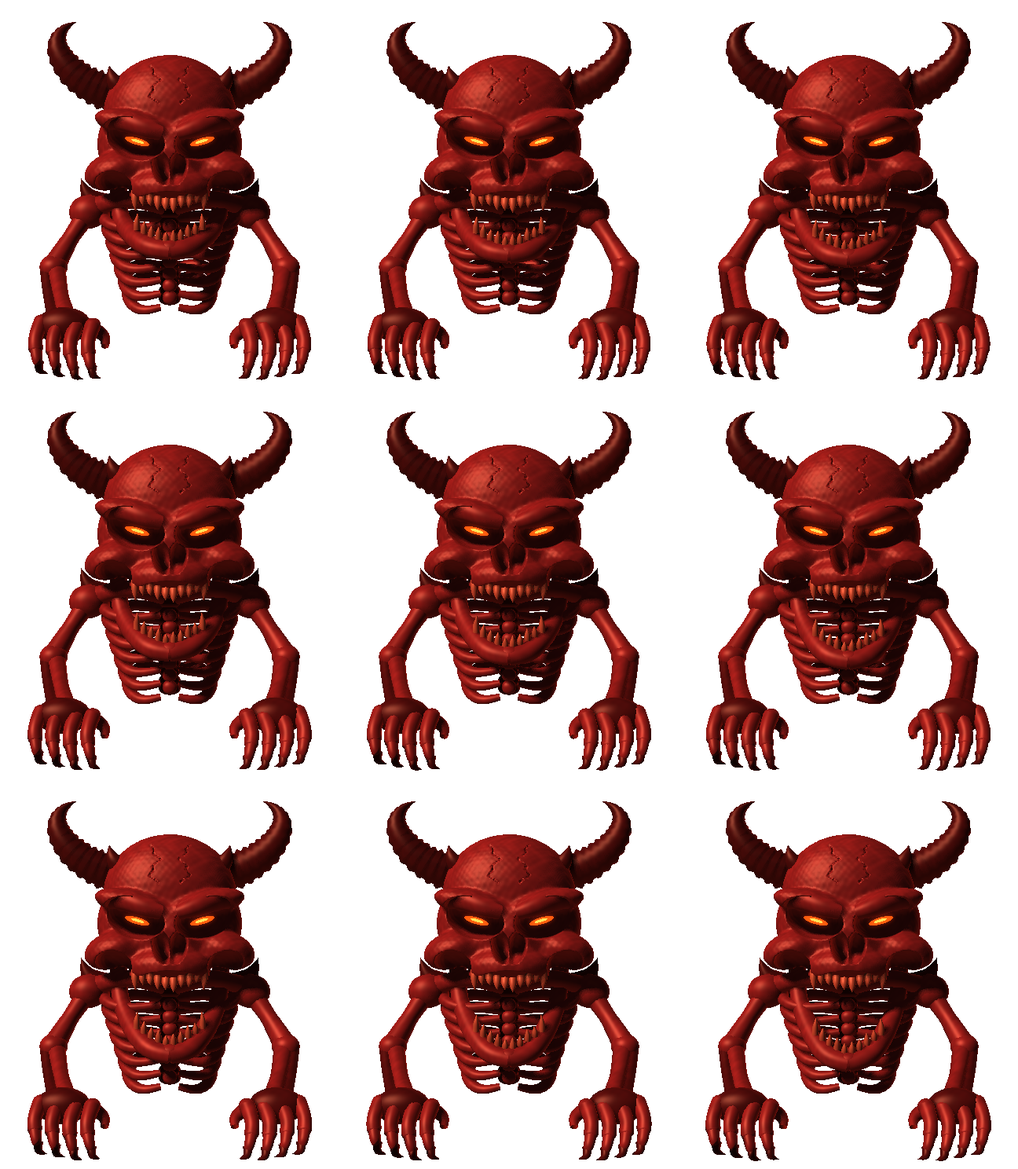
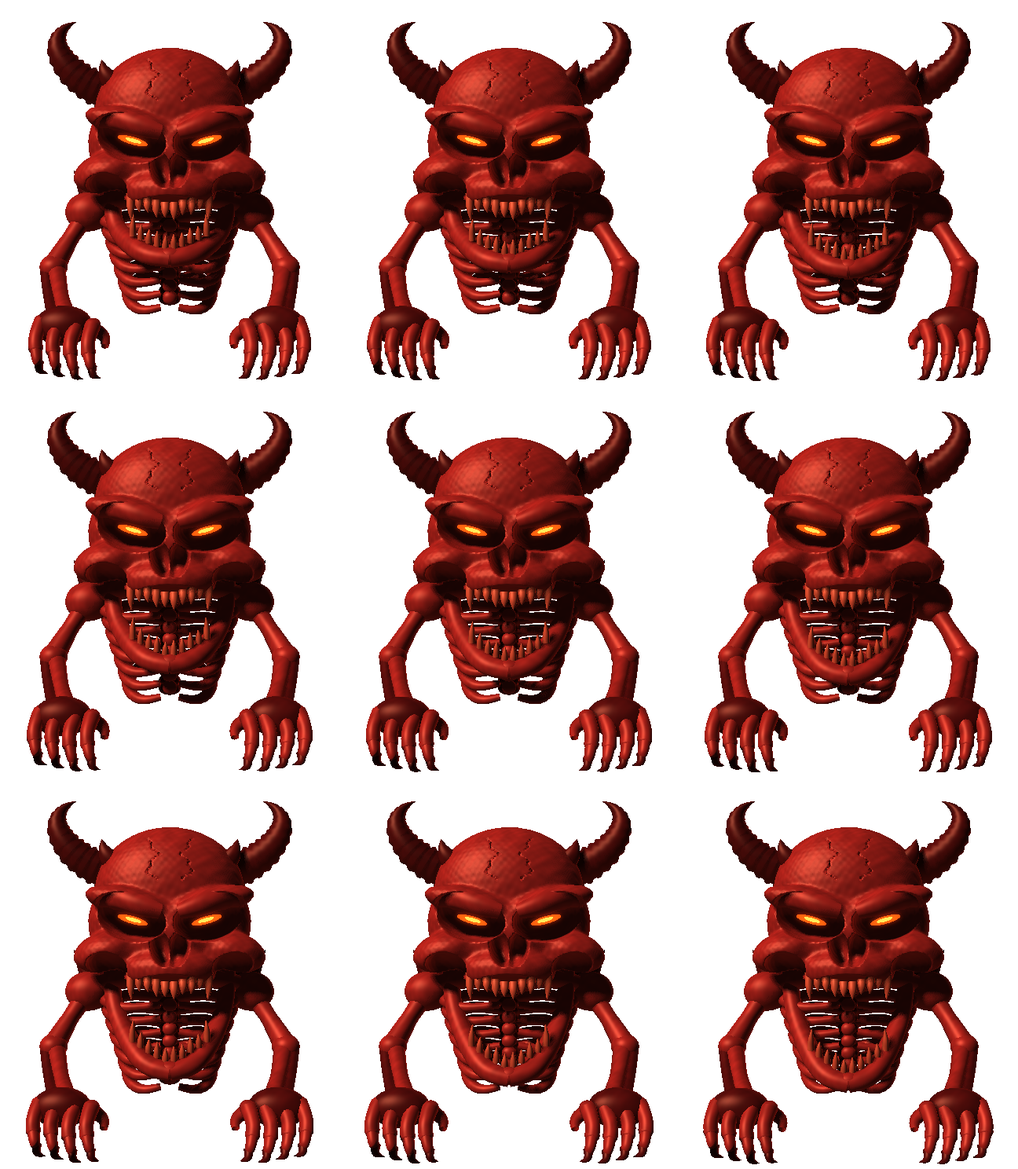
Refine SSL strip, align Dope controls and add real output meter; deepen Demon relief
Preserve existing parameter identities and DSP. Add live peak telemetry for Dope and alignment checks, refine shared hardware finish, verify 37 native editor scenes and portable regressions.

diff --git a/Source/PluginEditor.cpp b/Source/PluginEditor.cpp
@@ -48,6 +48,14 @@ static void paintSSLReduction(Graphics& g,Rectangle<float> r,float db,float peak
     line(r.getY()+7,"GR dB",std::abs(db)<.05f?0.f:-std::abs(db),juce::jlimit(0,n,int(std::ceil(std::abs(db)*n/20.f))),false);
     line(r.getY()+34,"OUT dBFS",peak,juce::jlimit(0,n,int(std::ceil((peak+60.f)*n/60.f))),true);
 }
+// Real post-effect aggregate peak, red LED ladder like the rack hardware.
+static void paintDopePeak(Graphics& g,Rectangle<float> r,float db,bool plate){
+    const auto track=r.reduced(9,0).withY(r.getY()+27).withHeight(9);
+    if(plate){paintRecessedWindow(g,r,3.f);g.setColour(Colour(0xffddd7ce));g.setFont(font(10.f,true));g.drawText("OUTPUT LEVEL",r.withY(r.getY()+6).withHeight(16),juce::Justification::centred);return;}
+    const int n=32;const float step=track.getWidth()/n;const int lit=juce::jlimit(0,n,int(std::ceil((db+60.f)*n/60.f)));
+    for(int i=0;i<n;++i){auto b=Rectangle<float>(track.getX()+i*step,track.getY(),step-.85f,track.getHeight());const auto c=i<lit?Colour(0xffff3e22):Colour(0xff391714);g.setGradientFill(juce::ColourGradient::vertical(c.brighter(.18f),b.getY(),c.darker(.45f),b.getBottom()));g.fillRoundedRectangle(b,.6f);}
+    g.setColour(Colour(0xffd9b6a0));g.setFont(font(9.f));g.drawText(db<=-60.f?"-INF dBFS":juce::String(db,1)+" dBFS",r.withY(r.getY()+41).withHeight(18),juce::Justification::centred);
+}
 // =================================================================== KnobCell
 KnobCell::KnobCell(const juce::String& label, juce::RangedAudioParameter& param, Fmt fmt, juce::Colour cap, juce::Colour pointer,
                    double resetValue, double step, bool compact)
@@ -78,7 +86,7 @@ void KnobCell::setSprite(int) { slider.setSliderStyle(juce::Slider::RotaryVertic
 
 void KnobCell::resized() {
     if(bool(slider.getProperties().getWithDefault("consoleCell",false))&&!compact_){
-        const int size=juce::jmax(1,juce::jmin(getWidth()-2,getHeight()-20,47));
+        const int size=juce::jmax(1,juce::jmin(getWidth()-2,getHeight()-20,bool(slider.getProperties().getWithDefault("dopeRow",false))?52:47));
         slider.setBounds((getWidth()-size)/2,juce::jmax(0,(getHeight()-size-20)/2),size,size);return;
     }
     if(bool(slider.getProperties().getWithDefault("hushFader",false))&&!compact_){slider.setBounds(5,3,getWidth()-10,getHeight()-36);return;}
@@ -99,7 +107,7 @@ void KnobCell::resized() {
 bool KnobCell::controlGeometryValid() const noexcept {
     const auto b=slider.getBounds();
     if(b.isEmpty()||!getLocalBounds().contains(b))return false;
-    if(bool(slider.getProperties().getWithDefault("consoleCell",false)))return b.getWidth()==b.getHeight()&&b.getWidth()<=47&&b.getBottom()+18<=getHeight();
+    if(bool(slider.getProperties().getWithDefault("consoleCell",false)))return b.getWidth()==b.getHeight()&&b.getWidth()<=(bool(slider.getProperties().getWithDefault("dopeRow",false))?52:47)&&b.getBottom()+18<=getHeight();
     if(bool(slider.getProperties().getWithDefault("hushFader",false))&&!compact_)return b.getBottom()+28<=getHeight();
     if(b.getWidth()!=b.getHeight())return false;
     if(compact_)return b.getWidth()<=48;
@@ -156,7 +164,7 @@ void KnobCell::paint(Graphics& g) {
     const int y=juce::jmin(getHeight()-30,slider.getBottom()+3);
     if(bool(slider.getProperties().getWithDefault("consoleCell",false))){
         const int yy=juce::jmin(getHeight()-19,slider.getBottom()+1);
-        const float fs=getWidth()<40?8.3f:9.7f;
+        const float fs=bool(slider.getProperties().getWithDefault("dopeRow",false))?10.8f:getWidth()<40?8.3f:9.7f;
         g.setColour(lightFace_?Colour(0xff252322):Colour(0xffe3e1d9));g.setFont(font(fs,true));
         g.drawFittedText(label_,Rectangle<int>(0,yy,getWidth(),10),juce::Justification::centred,1);
         g.setColour(lightFace_?Colour(0xff37332a):Colour(0xffb4c2b9));g.setFont(font(fs));
@@ -283,7 +291,7 @@ void SlotComponent::rebuild() {
                 cell->slider.setTooltip("Click to switch mode");
                 cell->slider.setWantsKeyboardFocus(true);
             }
-            if(type==SkellDope)cell->slider.getProperties().set("houseTint",juce::String("ff353431"));
+            if(type==SkellDope){cell->slider.getProperties().set("houseTint",juce::String("ff353431"));if(j>0){cell->slider.getProperties().set("consoleCell",true);cell->slider.getProperties().set("dopeRow",true);}}
             if(type==SkellNoise&&j==0){cell->slider.getProperties().set("hushFader",true);cell->slider.setSliderStyle(juce::Slider::LinearVertical);}
             if(type==SkellSSL){
                 cell->slider.getProperties().set("consoleCell",true);
@@ -346,11 +354,12 @@ bool SlotComponent::artworkLayoutIsValid() const {
         const auto& c=*cells[i];
         // The central fifth compressor control may extend below the general
         // body, but not into the side fasteners or real power-button bounds.
-        const bool makeupBay=!editing&&i==4&&cells.size()==5&&!vuRect.isEmpty();
+        const bool makeupBay=!editing&&i==4&&cells.size()==5&&info(type).hasVU&&!vuRect.isEmpty();
         const auto safe=makeupBay?getLocalBounds().reduced(24,0).withTrimmedTop(100).withTrimmedBottom(10):body;
         if(!safe.contains(c.getBounds())||!c.controlGeometryValid()||c.getBounds().intersects(vuRect)||c.getBounds().intersects(footRect)||c.getBounds().intersects(originalLayout(type,getWidth(),editing).detail))return false;
         for(size_t j=0;j<i;++j)if(c.getBounds().intersects(cells[j]->getBounds()))return false;
     }
+    if(type==SkellDope){for(int j=2;j<=4;++j){if(cells[j]->getBounds().getCentreY()!=cells[1]->getBounds().getCentreY()||cells[j]->getBounds().getCentreX()-cells[j-1]->getBounds().getCentreX()!=cells[2]->getBounds().getCentreX()-cells[1]->getBounds().getCentreX())return false;}}
     return true;
 }
 
@@ -458,11 +467,11 @@ void SlotComponent::paintNativeFace(Graphics& g) {
         pg.addTransform(juce::AffineTransform::scale(float(rasterScale)));
         paintOriginalSurface(pg,getLocalBounds().toFloat(),type,nativeChoice);
         if(type==SkellSSL){
-            pg.setColour(Colour(0xff111514));pg.fillRoundedRectangle(Rectangle<float>(12,31,float(w-24),59),2.f);
-            pg.setColour(Colour(0xffa8aba4).withAlpha(.32f));pg.drawRoundedRectangle(Rectangle<float>(12,31,float(w-24),59),2.f,.7f);
-            paintMonogram(pg,Rectangle<float>(21,43,18,24),Colour(0xffe0ded2));
-            pg.setColour(Colour(0xffe0ded2));pg.setFont(font(20.f,true).withExtraKerningFactor(.06f));pg.drawText("SSL STRIP",47,37,w-59,26,juce::Justification::centredLeft);
-            pg.setColour(Colour(0xffaab1a9));pg.setFont(font(9.5f,true).withExtraKerningFactor(.14f));pg.drawText("SKELL / E-G CHANNEL",48,64,w-61,15,juce::Justification::centredLeft);
+            pg.setColour(Colour(0xff111514));pg.fillRect(juce::Rectangle<float>(10,29,float(w-20),48));
+            pg.setColour(Colour(0xffa8aba4).withAlpha(.32f));pg.drawHorizontalLine(77,10.f,float(w-10));
+            paintMonogram(pg,Rectangle<float>(18,39,15,21),Colour(0xffe0ded2));
+            pg.setColour(Colour(0xffe0ded2));pg.setFont(font(16.f,true).withExtraKerningFactor(.045f));pg.drawText("SSL STRIP",40,32,w-53,23,juce::Justification::centredLeft);
+            pg.setColour(Colour(0xffaab1a9));pg.setFont(font(9.5f,true).withExtraKerningFactor(.14f));pg.drawText("SKELL / E-G CHANNEL",40,55,w-53,14,juce::Justification::centredLeft);
         }else{
         paintMonogram(pg,Rectangle<float>(w*.5f-11,12,22,29),ink);
         pg.setColour(ink);pg.setFont(font(14.5f,false).withExtraKerningFactor(.22f));
@@ -482,28 +491,32 @@ void SlotComponent::paintNativeFace(Graphics& g) {
         const auto layout=originalLayout(type,w,editing);
         if(!layout.detail.isEmpty()){if(type==SkellDemon)paintDemonDetail(pg,layout.detail.toFloat());else if(isAirPanel(type))paintAirDetail(pg,layout.detail.toFloat(),type);else if(type==Reverb||type==Chorus)paintSpaceDetail(pg,layout.detail.toFloat(),type);else if(type==Sat||type==SoftClip||type==Eq||type==Tremolo||type==Phaser||type==Stereo||type==Transient)paintWorkshopDetail(pg,layout.detail.toFloat(),type);else paintTapeDetail(pg,layout.detail.toFloat(),type==Delay&&nativeChoice==1);}
         if(type==SkellSSL){
-            const int lane=(w-28)/2;
-            const auto panel=Rectangle<float>(10,98,float(w-20),426);
-            pg.setColour(Colour(0xff101414).withAlpha(.40f));pg.fillRoundedRectangle(panel,3.f);
-            pg.setColour(Colour(0xffafb7af).withAlpha(.36f));pg.drawRoundedRectangle(panel,3.f,.7f);
-            pg.setColour(Colour(0xff101111));pg.drawVerticalLine(13+lane,101,522);
-            pg.setColour(Colour(0xff89908a).withAlpha(.45f));pg.drawVerticalLine(14+lane,101,522);
+            const int lane=(w-22)/2;
+            pg.setColour(Colour(0xff111414));pg.fillRect(9,84,w-18,447);
+            pg.setColour(Colour(0xff292d2c));pg.drawVerticalLine(11+lane,84,531);
             auto section=[&](int x,int y,int ww,const char* label){
-                pg.setGradientFill(juce::ColourGradient::vertical(Colour(0xff515652),float(y),Colour(0xff262a28),float(y+17)));pg.fillRect(x,y,ww,17);
-                pg.setColour(Colour(0xffc8cbbf));pg.setFont(font(9.f,true).withExtraKerningFactor(.04f));pg.drawFittedText(label,Rectangle<int>(x+4,y,ww-8,17),juce::Justification::centredLeft,1);
+                pg.setColour(Colour(0xff5c625e).withAlpha(.8f));pg.drawHorizontalLine(y,float(x),float(x+ww));
+                pg.setColour(Colour(0xffdfdfd4));pg.setFont(font(9.f,true).withExtraKerningFactor(.025f));
+                pg.drawFittedText(label,Rectangle<int>(x+2,y+2,ww-4,15),juce::Justification::centredLeft,1);
             };
-            section(15,103,lane-6,"INPUT / OUTPUT");section(15,175,lane-6,"FILTER / CIRCUIT");section(15,247,lane-6,"COMPRESSOR");section(15,378,lane-6,"GATE / EXP");
-            section(18+lane,103,lane-6,"HIGH FREQ");section(18+lane,187,lane-6,"HI MID");section(18+lane,271,lane-6,"LO MID");section(18+lane,355,lane-6,"LOW FREQ");section(18+lane,438,lane-6,"DYNAMICS / OUT");
+            section(10,85,lane-2,"INPUT / OUTPUT");section(10,167,lane-2,"FILTER / CIRCUIT");section(10,249,lane-2,"COMPRESSOR");section(10,385,lane-2,"GATE / EXP");
+            section(12+lane,85,lane-2,"HF");section(12+lane,175,lane-2,"HMF");section(12+lane,265,lane-2,"LMF");section(12+lane,355,lane-2,"LF");section(12+lane,445,lane-2,"DYNAMICS / OUT");
             paintSSLReduction(pg,layout.meter.toFloat(),0,-60,true);
         }
         else if(type==SkellDope){
-            auto plaque=Rectangle<float>(101,126,float(w-115),82);
+            auto plaque=Rectangle<float>(91,131,float(w-105),72);
             paintHardwarePlate(pg,plaque,Colour(0xff31312e),true,4.f,2.6f);
             paintRecessedWindow(pg,plaque.reduced(6.f),2.f);
             pg.setColour(Colour(0xffd8d8c9));pg.setFont(font(11.f,true));pg.drawText("SKELL",plaque.withY(plaque.getY()+13).withHeight(15),juce::Justification::centred);
             pg.setFont(font(14.f,true));pg.drawText("A-TYPE",plaque.withY(plaque.getY()+29).withHeight(19),juce::Justification::centred);
             pg.setColour(Colour(0xffb6b5a9));pg.setFont(font(8.5f));pg.drawFittedText("DYNAMIC COLOR",plaque.withY(plaque.getY()+49).withHeight(16).toNearestInt(),juce::Justification::centred,1);
-            pg.setColour(ink.withAlpha(.38f));pg.drawHorizontalLine(233,16,w-16);pg.setColour(juce::Colours::black.withAlpha(.35f));pg.drawHorizontalLine(234,16,w-16);
+            pg.setColour(ink.withAlpha(.35f));pg.drawHorizontalLine(227,16,w-16);pg.setColour(juce::Colours::black.withAlpha(.25f));pg.drawHorizontalLine(228,16,w-16);
+            // Simple stamped horizontal control bay and live red LED readout.
+            auto bay=Rectangle<float>(9,232,float(w-18),94);pg.setColour(ink.withAlpha(.27f));pg.drawRect(bay,.8f);
+            paintDopePeak(pg,layout.meter.toFloat(),-60,true);
+            pg.setColour(ink.withAlpha(.55f));pg.setFont(font(10.f,true).withExtraKerningFactor(.11f));pg.drawText("DUAL CIRCUIT",14,473,w-28,16,juce::Justification::centred);
+            pg.setColour(ink.withAlpha(.40f));pg.setFont(font(9.f));pg.drawText("SPECTRAL 4",14,491,w-28,14,juce::Justification::centred);
+
         }
         else if(type==SkellNoise&&!layout.meter.isEmpty())paintHushMeter(pg,layout.meter.toFloat(),0,true);
         else if(type==SkellMixHead&&!layout.meter.isEmpty())paintMixHeadPeak(pg,layout.meter.toFloat(),-60.f,true);
@@ -540,6 +553,7 @@ void SlotComponent::paintNativeFace(Graphics& g) {
     if(type==SkellDeEsserFX)
         paintEngravedFigure(g,{27.f,34.f,18.f,24.f},ink.withAlpha(.72f),BonePose::stand,artworkMotion.phase);
     if(type==SkellSSL&&!vuRect.isEmpty()){paintSSLReduction(g,vuRect.toFloat(),needle,outputDb,false);}
+    else if(type==SkellDope&&!vuRect.isEmpty()){paintDopePeak(g,vuRect.toFloat(),outputDb,false);}
     else if(type==SkellNoise&&!vuRect.isEmpty()){paintHushMeter(g,vuRect.toFloat(),needle,false);}
     else if(type==SkellMixHead&&!vuRect.isEmpty()){
         paintMixHeadPeak(g,vuRect.toFloat(),outputDb,false);

diff --git a/Source/OriginalPanel.h b/Source/OriginalPanel.h
@@ -15,7 +15,7 @@ inline PanelSpec originalSpec(int type,int finish) {
     if(finish==1&&type==Reverb)metal=Colour(0xff423b4a);
     if(finish==1&&type==Chorus)metal=Colour(0xff29454a);
     if(finish==1&&type==SkellDope)metal=Colour(0xffc1c3be);
-    if(finish==1&&type==SkellSSL)metal=Colour(0xff212425);
+    if(finish==1&&type==SkellSSL)metal=Colour(0xff1a1c1c);
     if(finish==1&&type==SkellDemon)metal=Colour(0xff591014);
     if(finish==0)metal=Colour(0xff303437);
     if(finish==2)metal=Colour(0xffb1b6b1);
@@ -39,34 +39,36 @@ inline OriginalLayout originalLayout(int type,int width,bool editing=false) {
     if(type==Delay||type==Slap||type==Air||type==SkellAirFX||type==Reverb||type==Chorus||type==Sat||type==SoftClip||type==Eq||type==Tremolo||type==Phaser||type==Stereo||type==Transient)l.detail={16,106,width-32,120};
     if(type==Eq)l.detail.setHeight(82);
     if(type==SkellDemon){
-        l.detail={10,101,width-20,249};
-        const int cw=(width-24)/3,rh=(editing?519:547)-355;
-        for(int k=0;k<6;++k)l.cells[k]={12+(k%3)*cw,355+(k/3)*(rh/2),cw,rh/2-3};
+        l.detail={7,101,width-14,255};
+        const int cw=(width-24)/3,rh=(editing?519:547)-360;
+        for(int k=0;k<6;++k)l.cells[k]={12+(k%3)*cw,360+(k/3)*(rh/2),cw,rh/2-3};
         return l;
     }
     if(type==SkellSSL){
         // Console proportions: compact input/filter/dynamics on the left,
         // four full EQ bands on the right. The six original automation slots
         // and the appended SSL controls are placed independently.
-        const int lane=(width-28)/2, left=13,right=15+lane;
+        const int lane=(width-22)/2, left=10,right=12+lane;
         auto row=[&](int x,int y,int h,std::initializer_list<int> ids){const int n=int(ids.size()),cw=lane/n;int i=0;for(int j:ids){l.cells[j]={x+i*cw,y,cw,h};++i;}};
         auto e=[](int i){return kMaxKnobs+i;};
-        row(left,120,53,{e(SslInput),e(SslOutput),e(SslPhase)});
-        row(left,190,54,{e(SslHP),e(SslLP),0});
-        row(left,263,54,{5,e(SslThreshold),e(SslRatio)});
-        row(left,319,53,{e(SslRelease),e(SslFast)});
-        row(left,394,54,{e(SslExpThreshold),e(SslExpRange)});
-        row(left,451,61,{e(SslExpRelease),e(SslGate)});
-        row(right,120,64,{4,e(SslHFFreq),e(SslHFBell)});
-        row(right,204,64,{3,e(SslHMFreq),e(SslHMQ)});
-        row(right,288,64,{2,e(SslLMFreq),e(SslLMQ)});
-        row(right,372,64,{1,e(SslLFFreq),e(SslLFBell)});
-        l.meter={right+2,456,lane-4,64};return l;
+        row(left,103,63,{e(SslInput),e(SslOutput),e(SslPhase)});
+        row(left,185,63,{e(SslHP),e(SslLP),0});
+        row(left,267,63,{5,e(SslThreshold),e(SslRatio)});
+        row(left,330,54,{e(SslRelease),e(SslFast)});
+        row(left,403,55,{e(SslExpThreshold),e(SslExpRange)});
+        row(left,458,57,{e(SslExpRelease),e(SslGate)});
+        row(right,103,71,{4,e(SslHFFreq),e(SslHFBell)});
+        row(right,193,71,{3,e(SslHMFreq),e(SslHMQ)});
+        row(right,283,71,{2,e(SslLMFreq),e(SslLMQ)});
+        row(right,373,71,{1,e(SslLFFreq),e(SslLFBell)});
+        l.meter={right+2,463,lane-4,64};return l;
     }
     if(type==SkellDope){
-        l.cells[0]={14,113,81,111};
-        for(int k=1;k<=4;++k)l.cells[k]={12+((k-1)%2)*half,238+((k-1)/2)*135,half,128};
-        return l;
+        // Four rotary controls share one exact horizontal centreline.
+        l.cells[0]={12,124,70,98};
+        const int cw=(width-24)/4;
+        for(int k=1;k<=4;++k)l.cells[k]={12+(k-1)*cw,234,cw,86};
+        l.meter={20,363,width-40,72};return l;
     }
     if(type==SkellNoise){l.meter={18,108,68,260};l.cells[0]={89,108,width-105,260};l.cells[1]={12,385,half,editing?126:158};l.cells[2]={12+half,385,half,editing?126:158};return l;}
     const bool window=!l.meter.isEmpty()||!l.detail.isEmpty();
@@ -387,7 +389,7 @@ inline void paintTapeDetail(Graphics& g,juce::Rectangle<float> r,bool useReferen
     // The tape mechanism is decorative; its live controls are below the window.
 }
 inline void paintDemonVectorFallback(Graphics& g,juce::Rectangle<float> r,float phase=0,float level=0,bool frame=true){
-    const auto win=r.withTrimmedBottom(15.f);
+    const auto win=r.withTrimmedBottom(23.f);
     if(frame)paintHardwarePlate(g,win,Colour(0xff341218),false,6.f,3.f);
     auto a=win.reduced(5.f);juce::Graphics::ScopedSaveState clip(g);g.reduceClipRegion(r.toNearestInt());
     g.setGradientFill(juce::ColourGradient(Colour(0xff69120d),a.getCentreX(),a.getY()+a.getHeight()*.38f,Colour(0xff130407),a.getRight(),a.getBottom(),true));g.fillRoundedRectangle(a,4);
@@ -455,7 +457,7 @@ inline const juce::Image& demonReliefAtlas(){
 inline bool demonReliefIsValid(){const auto& a=demonReliefAtlas();return a.isValid()&&a.hasAlphaChannel()&&a.getWidth()==1296&&a.getHeight()==1488;}
 inline void paintDemonDetail(Graphics& g,juce::Rectangle<float> r,float phase=0,float level=0,bool frame=true){
     if(!demonReliefIsValid()){paintDemonVectorFallback(g,r,phase,level,frame);return;}
-    const auto win=r.withTrimmedBottom(15.f);const auto a=win.reduced(5.f);
+    const auto win=r.withTrimmedBottom(23.f);const auto a=win.reduced(5.f);
     if(frame){paintHardwarePlate(g,win,Colour(0xff341218),false,6.f,3.f);return;}
     juce::Graphics::ScopedSaveState clip(g);g.reduceClipRegion(r.toNearestInt());
     g.setGradientFill(juce::ColourGradient(Colour(0xff5b140f),a.getCentreX(),a.getY()+a.getHeight()*.53f,Colour(0xff090306),a.getRight(),a.getBottom(),true));g.fillRoundedRectangle(a,4.f);
@@ -464,7 +466,7 @@ inline void paintDemonDetail(Graphics& g,juce::Rectangle<float> r,float phase=0,
         for(int i=0;i<28;++i){const float x=a.getX()+float((i*43)%100)*a.getWidth()/100.f,y=a.getBottom()-std::fmod(i*23.f+phase*12.f,a.getHeight());g.setColour(Colour(0xffff7031).withAlpha(.15f+.19f*level));g.fillEllipse(x,y,1.1f,2.8f);}
     }
     const int index=juce::jlimit(0,8,int(std::round(8.f*juce::jlimit(0.f,1.f,.5f+.43f*std::sin(phase*2.7f-.7f)+.12f*level))));
-    const auto& atlas=demonReliefAtlas();const auto dst=r.reduced(1.f,0.f);g.setImageResamplingQuality(juce::Graphics::highResamplingQuality);g.setOpacity(1.f);
+    const auto& atlas=demonReliefAtlas();const auto dst=r.reduced(0.f,0.f);g.setImageResamplingQuality(juce::Graphics::highResamplingQuality);g.setOpacity(1.f);
     g.drawImage(atlas, dst.getX(),dst.getY(),dst.getWidth(),dst.getHeight(),(index%3)*432,(index/3)*496,432,496);
 }
 inline void paintOriginalSurface(Graphics& g,juce::Rectangle<float> r,int type,int finish) {

diff --git a/tools/render_demon_relief.py b/tools/render_demon_relief.py
@@ -82,7 +82,7 @@ def skull_mesh(mesh):
         s=union(s,e((side*.235,.405,.35),(.267,.096,.155),side*.24),.025)
         s=union(s,e((side*.365,.29,.09),(.145,.24,.24)),.03)
         # Outer edge of the orbit higher, inner lower: threatening brow.
-        s=np.maximum(s,-e((side*.238,.305,.445),(.213,.133,.287),side*.31))
+        s=np.maximum(s,-e((side*.238,.305,.445),(.224,.145,.32),side*.31))
         s=np.maximum(s,-e((side*.365,-.015,.415),(.126,.102,.218),side*.30))
         s=np.maximum(s,-e((side*.048,.105,.487),(.062,.12,.205),-side*.24))
     s=np.maximum(s,-e((0,-.188,.53),(.29,.138,.27)))
@@ -114,8 +114,8 @@ def build_static():
             tube(m,[(X(.06),y+.04,-.17),(X(w*.72),y+.065,-.11),(X(w),y-.015,.10),(X(w*.72),y-.10,.27),(X(.07),y-.08,.30)], [.044,.048,.052,.039,.027],0,26,12)
         tube(m,[(X(.04),-.20,.22),(X(.34),-.14,.23),(X(.56),-.19,.12),(X(.68),-.14,.06)],[.065,.065,.074,.05],0,22)
         # Scapula spike and skeletal shoulder joint.
-        tube(m,[(X(.45),-.23,-.02),(X(.64),-.15,-.02),(X(.74),.02,-.07)],[.12,.087,.002],3,18)
-        ellipsoid(m,(X(.65),-.245,.10),(.155,.135,.13),0)
+        tube(m,[(X(.45),-.23,-.02),(X(.64),-.15,-.02),(X(.80),.09,-.07)],[.14,.092,.002],3,18)
+        ellipsoid(m,(X(.65),-.245,.10),(.185,.158,.15),0)
         tube(m,[(X(.65),-.25,.11),(X(.77),-.44,.20),(X(.87),-.64,.35)],[.081,.066,.088],0,18)
         ellipsoid(m,(X(.87),-.64,.35),(.105,.09,.095),0)
         tube(m,[(X(.85),-.65,.36),(X(.76),-.81,.60),(X(.66),-.91,.85)],[.068,.052,.060],0,18)
@@ -132,26 +132,26 @@ def build_static():
         # Small hot eyes deep inside true sockets.
         # Sharply angled heavy brows and thin molten slits, not round pupils.
         tube(m,[(side*.055,.342,.438),(side*.18,.386,.445),(side*.315,.435,.375),(side*.435,.412,.25)],[.048,.071,.077,.031],0,25,18)
-        ellipsoid(m,(side*.222,.300,.275),(.087,.024,.031),1,side*.30)
-        ellipsoid(m,(side*.217,.299,.302),(.046,.010,.013),4,side*.30)
+        ellipsoid(m,(side*.222,.300,.275),(.095,.025,.034),1,side*.30)
+        ellipsoid(m,(side*.217,.299,.302),(.052,.012,.014),4,side*.30)
         # Spiked cranial ridge, framing the angry face.
         tube(m,[(side*.30,.65,.14),(side*.39,.75,.15),(side*.43,.87,.08)],[.087,.055,.002],3,18,14)
     # Upper teeth along a curved dental arch; long outer canines.
     for i in range(10):
         x=(i-4.5)*.050;z=.520-.095*(abs(x)/.225)**1.5;y=-.106+.014*abs(i-4.5)
-        l=.135 if i in (0,9) else .072+.014*(i%2)
+        l=.165 if i in (0,9) else .086+.014*(i%2)
         tube(m,[(x,y,z),(x,y-l*.53,z+.014),(x*.98,y-l,z+.002)],[.027,.022,.004],2,10,12)
     # Bring the skull toward the listener; keep the horns anchored to the cranium.
     for k in range(head_start,len(m.v)):
-        m.v[k][:,0]*=1.12;m.v[k][:,1]=.27+(m.v[k][:,1]-.27)*1.08;m.v[k][:,2]+=.035
-        m.n[k][:,0]/=1.12;m.n[k][:,1]/=1.08;m.n[k]/=np.maximum(np.linalg.norm(m.n[k],axis=1,keepdims=True),1e-8)
+        m.v[k][:,0]*=1.25;m.v[k][:,1]=.27+(m.v[k][:,1]-.27)*1.15;m.v[k][:,2]+=.07
+        m.n[k][:,0]/=1.25;m.n[k][:,1]/=1.15;m.n[k]/=np.maximum(np.linalg.norm(m.n[k],axis=1,keepdims=True),1e-8)
     return m
 
 def add_jaw(m,open_amt):
     # Hinge-driven 3D jaw, rotating the chin forward and down, not a flat mouth overlay.
     # Y displacement grows toward the front of the mandible.
     def pose(p):
-        x,y,z=p;w=np.clip((z-.11)/.44,0,1);return (x*1.12,.27+(y-open_amt*.22*w-.27)*1.08,z+open_amt*.035*w+.035)
+        x,y,z=p;w=np.clip((z-.11)/.44,0,1);return (x*1.25,.27+(y-open_amt*.28*w-.27)*1.15,z+open_amt*.055*w+.07)
     for side in (-1,1):
         X=lambda x:side*x
         points=[(X(.36),.015,.09),(X(.34),-.235,.17),(X(.235),-.36,.36),(X(.13),-.414,.49),(0,-.435,.53)]
@@ -159,14 +159,14 @@ def add_jaw(m,open_amt):
     ellipsoid(m,pose((0,-.423,.53)),(.10,.063,.059),0)
     for i in range(10):
         x=(i-4.5)*.047;z=.523-.085*(abs(x)/.22)**1.4;y=-.386+.018*abs(i-4.5)
-        l=.105 if i in (0,9) else .062+.012*(i%2)
+        l=.13 if i in (0,9) else .077+.012*(i%2)
         tube(m,[pose((x,y,z)),pose((x,y+l*.52,z+.008)),pose((x*.98,y+l,z+.001))],[.026,.022,.004],2,10,12)
 
 def add_hands(m,amt):
     # Foreground joints and claws reach past the window frame in perspective.
     for side in (-1,1):
-        X=lambda x:side*x;reach=amt*.027
-        ellipsoid(m,(X(.69),-.935,.86+reach),(.18,.115,.095),3)
+        X=lambda x:side*x;reach=amt*.075
+        ellipsoid(m,(X(.69),-.935,.86+reach),(.19,.126,.103),3)
         for i in range(4):
             x=.49+i*.112;y=-.93+(.012*abs(i-1));z=.875+.015*(3-i)+reach
             ellipsoid(m,(X(x),y,z),(.052,.045,.049),0)
@@ -222,8 +222,8 @@ def render(mesh):
     spec=np.maximum(np.sum(N*half,axis=1),0)**32 * vis
     fres=(1-np.maximum(np.sum(N*view,axis=1),0))**2
     texture=.91+.045*np.sin(pp[:,0]*39+2*np.sin(pp[:,1]*31)+np.sin(pp[:,2]*45))+.033*np.sin(pp[:,1]*59+2*np.sin(pp[:,2]*36+pp[:,0]*23))+.019*np.sin(pp[:,2]*140+pp[:,0]*97)
-    colors=np.array([[.48,.059,.049],[1.0,.14,.008],[.72,.19,.10],[.24,.025,.020],[1.,.58,.12]])[mat[mask]]
-    rgb=colors*texture[:,None]*(.15+1.18*D[:,None]*vis[:,None])
+    colors=np.array([[.53,.071,.052],[1.0,.14,.008],[.72,.19,.10],[.24,.025,.020],[1.,.58,.12]])[mat[mask]]
+    rgb=colors*texture[:,None]*(.12+1.26*D[:,None]*vis[:,None])
     rgb+=np.array([.50,.048,.023])*rim[:,None]*(.50+.50*fres[:,None])
     rgb+=np.array([.72,.40,.27])*spec[:,None]*.43
     # Subtle red up-light, keeps shadows deep rather than flattening into orange.
@@ -233,7 +233,7 @@ def render(mesh):
     # Small surface grain in camera space, color in sRGB-like artist units.
     rgb=np.clip(rgb,0,1);rgb=np.power(rgb,.82)
     image=np.zeros((H,W,4),np.uint8);image[mask,:3]=(rgb*255).astype(np.uint8);image[mask,3]=255
-    eye=(mat==1)|(mat==4);bloom=gaussian_filter(eye.astype(np.float32),3.1)*1.1
+    eye=(mat==1)|(mat==4);bloom=gaussian_filter(eye.astype(np.float32),3.1)*1.45
     image[:,:,:3]=np.clip(image[:,:,:3].astype(np.float32)+bloom[:,:,None]*np.array([115,25,5],np.float32),0,255).astype(np.uint8)
     return Image.fromarray(image,'RGBA')
 

diff --git a/Source/Look.h b/Source/Look.h
@@ -142,16 +142,16 @@ inline void paintHardwarePlate(Graphics& g,juce::Rectangle<float> r,Colour metal
         juce::Graphics::ScopedSaveState save(g);
         juce::Path clip;clip.addRoundedRectangle(face.getX(),face.getY(),face.getWidth(),face.getHeight(),rr);g.reduceClipRegion(clip);
         const bool light=metal.getPerceivedBrightness()>.46f;
-        juce::ColourGradient body(metal.interpolatedWith(Colour(0xfff8e9d6),light?.15f:.055f),face.getX(),face.getY(),
+        juce::ColourGradient body(metal.interpolatedWith(Colour(0xfff8e9d6),light?.19f:.075f),face.getX(),face.getY(),
             metal.interpolatedWith(Colour(0xff080a0a),light?.16f:.25f),face.getRight(),face.getBottom(),false);
         body.addColour(.44,metal);g.setGradientFill(body);g.fillRect(face);
         g.setGradientFill(juce::ColourGradient(juce::Colours::white.withAlpha(light?.15f:.075f),
             face.getX()+face.getWidth()*.22f,face.getY()+face.getHeight()*.14f,juce::Colours::transparentWhite,
             face.getRight(),face.getCentreY(),true));g.fillRect(face);
-        if(brushed)paintBrushed(g,face,light?.70f:.56f);else {paintPeened(g,face,.52f);paintBrushed(g,face,.30f);}
+        if(brushed)paintBrushed(g,face,light?.76f:.62f);else {paintPeened(g,face,.52f);paintBrushed(g,face,.30f);}
         // Large reflected softbox and darker return, clipped to the metal.
         g.setGradientFill(juce::ColourGradient(Colour(0xffffe9c7).withAlpha(light?.055f:.018f),face.getX()+face.getWidth()*.18f,face.getY()+face.getHeight()*.18f,juce::Colours::transparentWhite,face.getRight(),face.getBottom(),true));g.fillRect(face);
-        g.setGradientFill(juce::ColourGradient(juce::Colours::black.withAlpha(light?.06f:.12f),face.getRight(),face.getBottom(),juce::Colours::transparentBlack,face.getX(),face.getCentreY(),true));g.fillRect(face);
+        g.setGradientFill(juce::ColourGradient(juce::Colours::black.withAlpha(light?.09f:.15f),face.getRight(),face.getBottom(),juce::Colours::transparentBlack,face.getX(),face.getCentreY(),true));g.fillRect(face);
         g.setGradientFill(juce::ColourGradient(juce::Colours::black.withAlpha(.18f),face.getRight(),face.getCentreY(),juce::Colours::transparentBlack,face.getRight()-7.f,face.getCentreY(),false));g.fillRect(face);
         g.setGradientFill(juce::ColourGradient::vertical(juce::Colours::transparentBlack,face.getBottom()-8.f,
             juce::Colours::black.withAlpha(.28f),face.getBottom()));g.fillRect(face);
@@ -689,9 +689,9 @@ public:
                 g.drawLine(cx+sine*capR*1.105f,cy+cosine*capR*1.105f,
                            cx+sine*capR*1.205f,cy+cosine*capR*1.205f,juce::jmax(.8f,capR*.033f));
             }else{
-                const float rr=capR*1.16f,dot=juce::jmax(.95f,capR*.043f);
-                g.setColour(tick.withAlpha(.94f));
-                g.fillEllipse(cx+sine*rr-dot,cy+cosine*rr-dot,2*dot,2*dot);
+                const float inner=capR*1.125f,outer=capR*1.195f;
+                g.setColour(tick.withAlpha(.87f));
+                g.drawLine(cx+sine*inner,cy+cosine*inner,cx+sine*outer,cy+cosine*outer,juce::jmax(.65f,capR*.026f));
             }
         }
         // A narrow pointer at the metal rim: never crosses the skull, and

diff --git a/Source/Modules.h b/Source/Modules.h
@@ -17,7 +17,7 @@ inline int resolveRackType(float legacy, float extension) noexcept {
     if (!std::isfinite(extension) || extension < 1 || extension > kNumRackTypes - kNumTypes) return Empty;
     return kNumTypes + (int) std::lround(extension) - 1;
 }
-inline bool hasOutputPeak(int type) noexcept { return type==Flanger || type==SkellMixHead || type==SkellSSL; }
+inline bool hasOutputPeak(int type) noexcept { return type==Flanger || type==SkellMixHead || type==SkellSSL || type==SkellDope; }
 enum class Unit { Db, Hz, Ms, Pct, Ratio, Sec, LfoHz, Pan, Steps, Scalar };
 enum Category : int { CatNone=0, CatDynamics, CatTone, CatSpace, CatUtility };
 struct Knob { const char* label; float lo,hi; bool log; float def; Unit unit; int steps; const char* names; };

diff --git a/tests/ProcessorRegression.h b/tests/ProcessorRegression.h
@@ -60,7 +60,7 @@ inline void processorRegression() {
     require(p.slotType(0)==skl::Eq,"Extension overrode legacy selection");
     // A real Jet meter must match the output of a unity-gain single-slot
     // rack, consume its peak once and clear on bypass/removal.
-    for(int meterType:{skl::Flanger,skl::SkellMixHead,skl::SkellSSL}){
+    for(int meterType:{skl::Flanger,skl::SkellMixHead,skl::SkellSSL,skl::SkellDope}){
     p.clearRack();require(p.addModule(meterType,0),"Peak-meter module not selectable");
     p.soloSlot.store(-1);set("in",0);set("out",0);set("bypass",0);set(p.onId(0),1);
     juce::AudioBuffer<float> jet(2,63);juce::MidiBuffer jetMidi;
